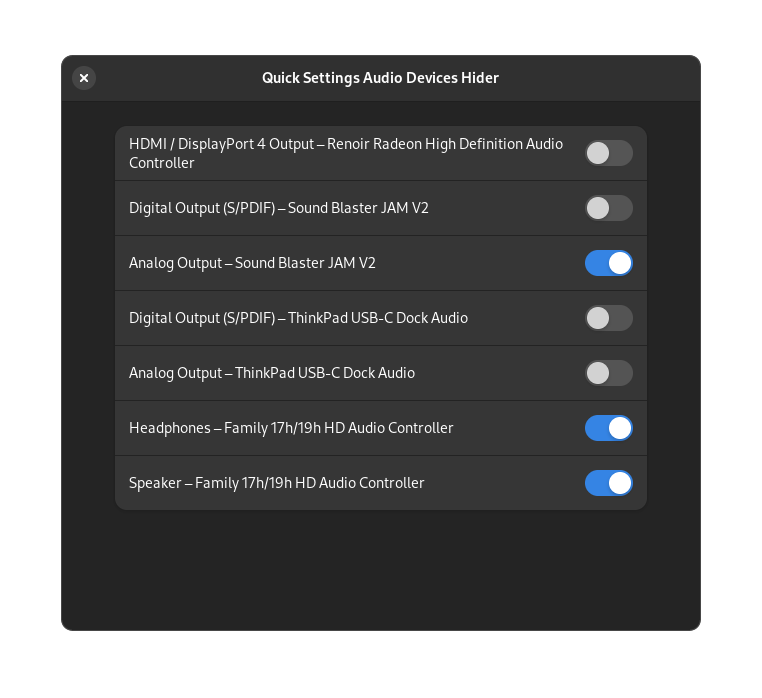
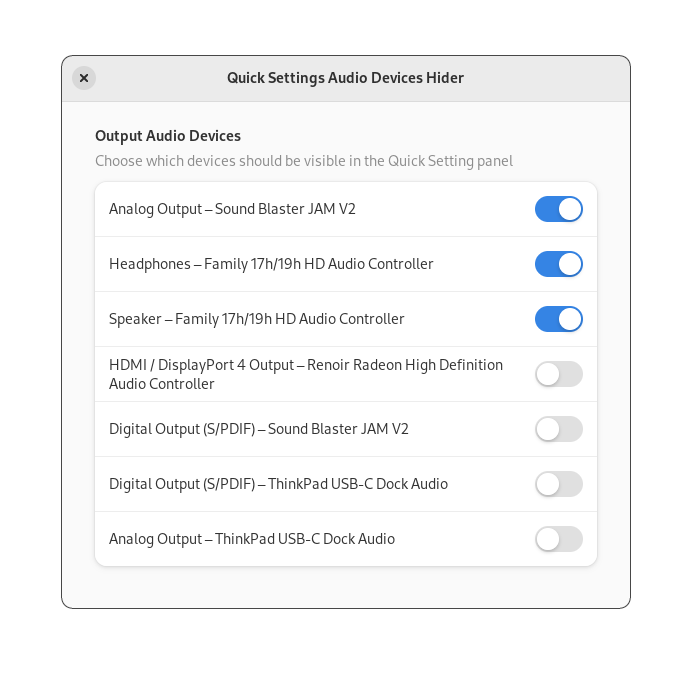
Add title and description to prefs window

diff --git a/src/prefs.ts b/src/prefs.ts
@@ -21,7 +21,11 @@ function fillPreferencesWindow(window: PreferencesWindow) {
     (device) => !hiddenDevices.includes(device)
   );
 
-  const group = new PreferencesGroup();
+  const group = new PreferencesGroup({
+    title: "Output Audio Devices",
+    description:
+      "Choose which devices should be visible in the Quick Setting panel",
+  });
   page.add(group);
 
   visibleDevices.forEach((device) => {
